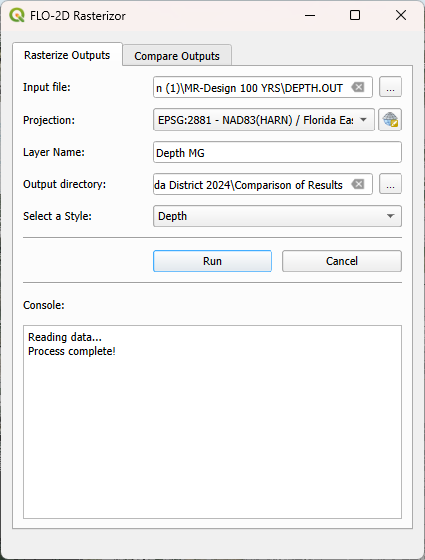
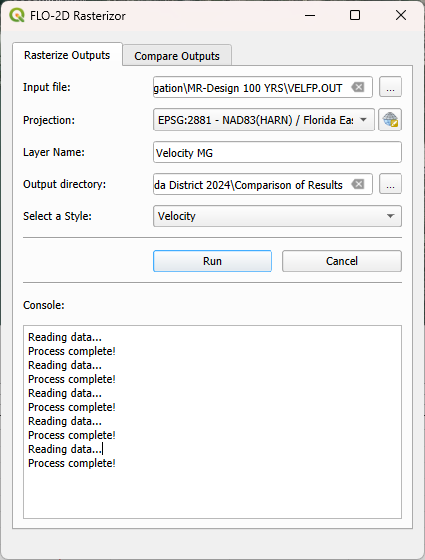
Final Lesson considering Noemi Comments

diff --git a/source/Coastal-Flooding/Comparison of Results.rst b/source/Coastal-Flooding/Comparison of Results.rst
@@ -393,7 +393,7 @@ Mangrove forest, specifically the roots, trunks and canopy,
 increases roughness and decreases the storm surge flooding and wave propagation.
 This scenario is based on the WARMER-mangrove model
 (`Kevin J Buffington, 2023 <https://www.usgs.gov/data/elevation-and-mangrove-cover-projections-under-sea-level-rise-scenarios-jn-ding-darling>`_).
-A higher vegetation density and extension is simulated increasing the Manning n.
+A higher vegetation density and extension is simulated increasing the Manning Roughness.
 
 1. Uncheck all layers and groups except for Google Hybrid.
 
@@ -408,55 +408,51 @@ A higher vegetation density and extension is simulated increasing the Manning n.
 
 .. image:: ../img/Coastal/comp059.png
 
-3. Open Rasterizor and create the Maximum Depth for the 100-years scenario with original manning.
-   The DEPTH.OUT file is located on MR-Design 100 YRS.
+3. Open Rasterizor and create the Maximum Velocity for the 100-years scenario with original manning.
+   The VELFP.OUT file is located on MR-Design 100 YRS.
 
 .. image:: ../img/Coastal/comp053.png
 
-4. Open Rasterizor and create the Maximum Depth for the 100-years scenario with high manning.
-   The DEPTH.OUT file is located on MR-Design 100 YRS High Manning.
+4. Now, create the Maximum Velocity for the 100-years scenario with high manning.
+   The VELFP.OUT file is located on MR-Design 100 YRS High Manning.
 
 .. image:: ../img/Coastal/comp054.png
 
-7. Utilize the Raster Calculator to identify regions where depth changes are more significant.
+5. Adjust the symbology for both raster layers to exclude velocities below 0.5. Refer to the image below for guidance.
 
-.. image:: ../img/Coastal/comp049.png
+.. image:: ../img/Coastal/comp096.png
 
-8. Fill the data as the image bellow and click OK.
+6. Visually compare both raster layers.
 
-.. image:: ../img/Coastal/comp055.png
+.. image:: ../img/Coastal/comp097.png
 
-.. note:: The expression IF(ABS("Depth MG@1" - "Depth MG High@1") > 0.1, "Depth MG@1" - "Depth MG High@1", -9999)
-          indicates that only difference values greater than absolute 0.1 will be added to the new raster,
-          while values different than that will be assigned as NO DATA (-9999).
-
-9. Once the raster is created, right click on the raster, go to Properties and select the Transparency tab. Set -9999
-   as additional NO DATA value and click apply.
-
-.. image:: ../img/Coastal/comp056.png
-
-10. Go to the symbology tab and fill the data as the following figure.
-
-.. image:: ../img/Coastal/comp057.png
-
-11. The resulting raster will only display areas where the differences are either greater or smaller than 0.1 and -0.1 ft.
-    To enhance visualization, uncheck all other layers except for Google Hybrid.
-
-.. image:: ../img/Coastal/comp058.png
-
-12. Compare the recently generated raster with the WARMER raster.
-
+The most significant differences are found where the Manning Roughness was changed (see the WARMER raster).
 Mangroves act as natural barriers that help reduce the energy of incoming waves and storm surges.
 The dense root systems and complex vegetation structure of mangroves dissipate wave energy,
 which in turn reduces the force of storm surges.
 This protective function can help prevent coastal erosion and minimize flooding in contiguous urban areas.
-Furthermore, the intricate root systems of mangroves slow down the movement of water,
+The intricate root systems of mangroves slow down the velocity of water,
 allowing for better absorption and storage of excess rainwater.
 Increasing the areal distribution of mangrove forests will reduce flood waters entering
 stormwater systems during heavy rainfall events mitigating flooding in downstream urban areas.
 
-.. important:: It is possible to achieve the same visualization using the symbology tab or Rasterizor.
-               However, the goal of this lesson is to demonstrate various methods for exploring FLO-2D results.
+7. Let's use the QGIS Profile Tool to quantify the velocity reduction on the estuary. Add the two velocity rasters
+   to the QGIS Profile Tool and change their colors as the following figure.
+
+.. image:: ../img/Coastal/comp098.png
+
+8. Create a profile plot over the estuary area and compare the results.
+
+.. image:: ../img/Coastal/comp099.png
+
+
+This plot illustrates the impact of elevated Manning roughness in the simulation.
+The green line represents the original Manning velocity,
+while the blue line corresponds to the simulation with increased Manning roughness.
+The plot indicates that raising the Manning roughness results in a decrease in velocity by approximately
+0.20 ft/s in the depicted area of the estuary.
+Similar patterns may be observed in other sections of the estuary within this simulation.
+Feel free to further explore the results within these scenarios.
 
 13. Group the layers generated in this lesson in a group called 'Mangrove'
 
@@ -523,7 +519,30 @@ The red areas represent streets where the maximum depth is greater than 0.25 ft,
 indicating situations where it may be difficult for a vehicle to cross.
 This map clearly shows that the elevated US Highway 41 can be safely used for emergency services and evacuation.
 
-12. Group the layers generated in this lesson in a group called 'US Highway 41'
+12. Let's assess the effect of elevating US Highway 41 on the Maximum Depths.
+    Open Rasterizor and create the Maximum Depth raster for the 100-years scenario.
+    The DEPTH.OUT file is located on the Design Storm 100 Yrs Subd 2.
+
+.. image:: ../img/Coastal/comp093.png
+
+13. Use the Rasterizor Compare Output tool to evaluate the differences.
+
+.. image:: ../img/Coastal/comp094.png
+
+14. Uncheck all layers but Google Hybrid and evaluate the resulting raster.
+    Zoom into the southern portion of the Subdomain 2.
+
+.. image:: ../img/Coastal/comp095.png
+
+In the southern portion of the previous image,
+an increase is evident on the right side of US Highway 41 when the highway is elevated.
+Conversely, in the northern portion, a reduction is observed on the left side of US Highway 41.
+This phenomenon is attributed to the highway acting as a barrier to the flow. Consequently,
+when implementing such an approach, it is crucial to consider the impact on flow patterns.
+The inclusion of culverts or other hydraulic structures may be necessary
+if this effect is not aligned with the design objectives.
+
+15. Group the layers generated in this lesson in a group called 'US Highway 41'
 
 Step 7. Future Scenarios
 ________________________
@@ -671,56 +690,7 @@ Zooming into specific areas reveals a larger flooded area in the 2060 scenario c
 
 12. Group the layers generated in this lesson in a group called 'Flooded Areas' and uncheck it.
 
-Step 8. Channel Analysis
-____________________________
-
-In this step, the channel hydraulics will be evaluated utilizing the Hurricane Irma Scenario.
-
-1. Uncheck all layers and groups except for Google Hybrid.
-
-2. Open MapCrafter and select the Subdomain 1 Hurricane Irma.
-
-3. Under the Site Characteristics group, check the Ground Elevation. Under the Channel group,
-   check Maximum Channel Depth and Maximum Channel Velocity. Click on Create Maps.
-
-.. image:: ../img/Coastal/comp080.png
-
-.. note:: MapCrafter generates a subfolder named "MapCrafter" within the selected Export Folder where the maps will be
-          saved. Users can modify this as needed.
-
-4. Check the FLO-2D MapCrafter group and move it to top. Open the Profile Tool and remove existing layers. Add the Ground Elevation,
-   Maximum Channel Depth, and Maximum Channel velocity to the plot.
-   Select red color for Ground Elevation, blue do Maximum Channel Depth, and green for Maximum Channel Velocity.
-
-.. image:: ../img/Coastal/comp081.png
-
-5. Uncheck the rasters and zoom into the Palm River Blvd Bridge over the Cocohatchee Canal.
-
-6. Create a profile plot on the west-east direction.
-
-.. image:: ../img/Coastal/comp082.png
-
-- The first hydraulic structure (1) exhibits a significant step of approximately 4 ft in the ground elevation (red).
-  This results in a decrease in Maximum Depth (blue) along with an increase in Maximum Velocity (green).
-
-- The second hydraulic structure (2) is a bridge. The bridge columns acts as a constriction
-  in the channel, narrowing the available space for water flow. This constriction leads to an increase in
-  flow velocity. As the flow accelerates through the bridge columns,
-  there is a temporary reduction in the depth of the channel. Beyond the bridge, where the channel
-  expands, the flow velocity decreases, allowing the depth of the channel to recover.
-
-- At the last hydraulic structure (3), the ground elevation exhibits a notable step,
-  indicating a change in the topography. In the approach to this structure,
-  there is a minor reduction in flow velocity accompanied by an increase in channel depth.
-  As the water encounters the hydraulic structure, which involves a constriction in channel width,
-  the flow accelerates, resulting in a decrease in channel depth.
-  This acceleration is consistent with the principles of open-channel hydraulics,
-  where constrictions lead to increased flow velocities. Following the structure,
-  there is a subsequent increase in flow velocity and a corresponding decrease in channel depth,
-  eventually returning to normal flow conditions in the channel
-
-
-Step 9. Hazard Maps
+Step 8. Hazard Maps
 _________________________
 
 FLO-2D MapCrafter Plugin creates hazard maps, highlighting areas with elevated risks based on FLO-2D simulations,
